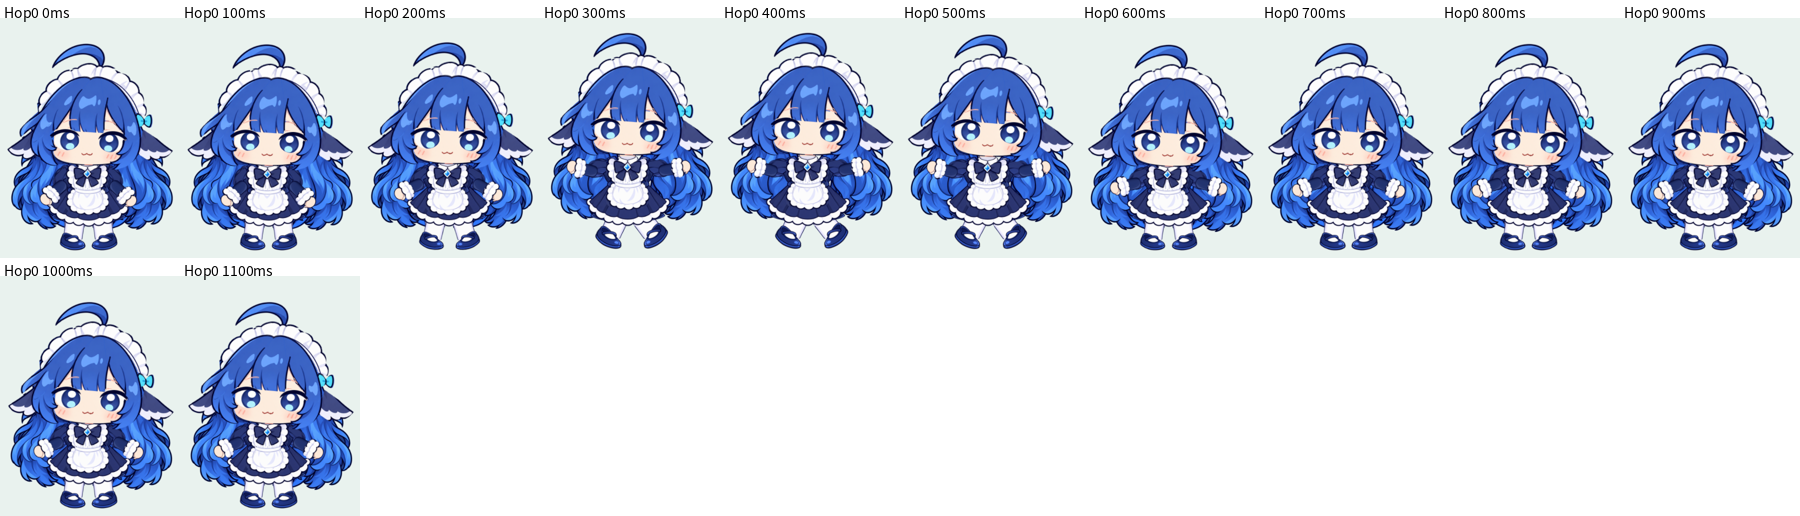
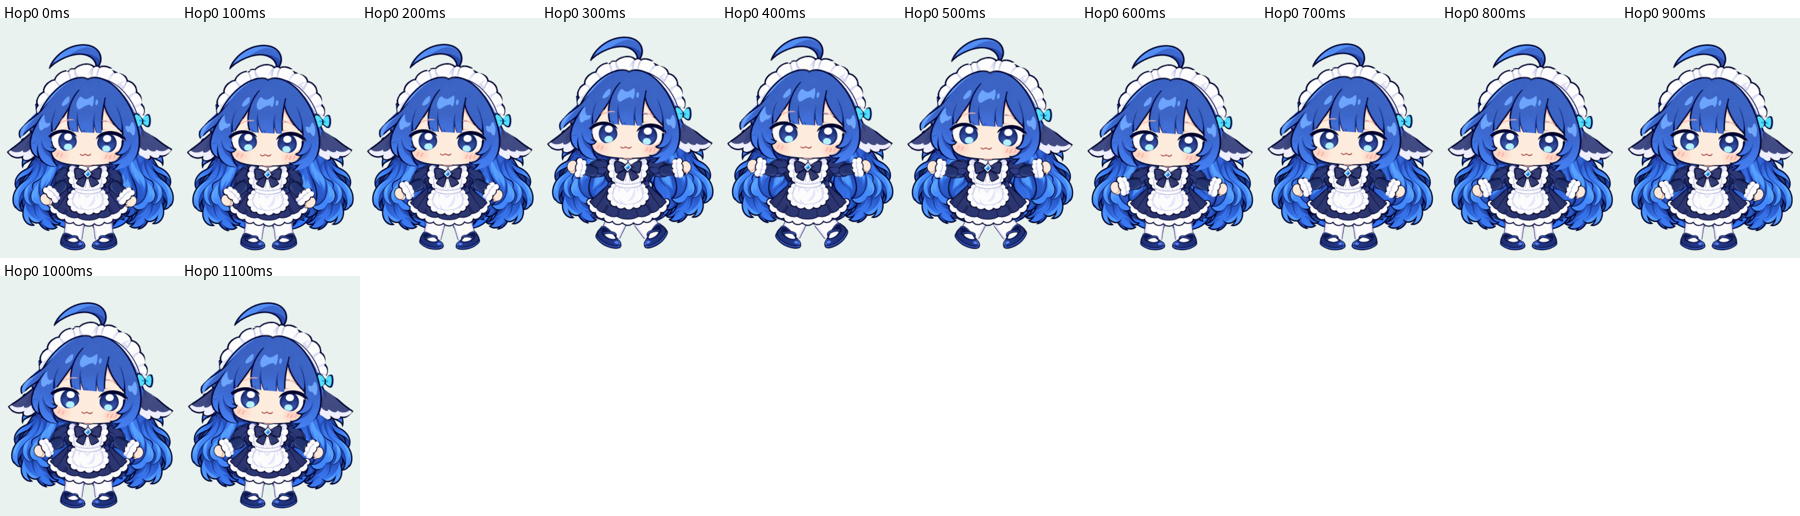
v12c 体检：乌龟脖修好；20 个动作帧带/GIF
Claude-Session: https://claude.ai/code/session_014mufu2mxK4BuEVaGT96PBE

Changed region(s): [[0.0, 0.062, 0.9956, 0.4651], [0.0, 0.5891, 0.2178, 0.9612], [0.1556, 0.9302, 0.1867, 0.9612]]

diff --git a/art/live2d/seeko_v12/tools/poses_neck.py b/art/live2d/seeko_v12/tools/poses_neck.py
@@ -1,0 +1,58 @@
+"""v12 运行时的极限姿势检查：每个参数推到两端各截一张，拼成一张图。用法：python3 poses.py <runtime目录> <输出png>"""
+import sys, json, subprocess, time, os
+from playwright.sync_api import sync_playwright
+from PIL import Image, ImageDraw, ImageFont
+
+RT = os.path.abspath(sys.argv[1])
+OUT = sys.argv[2]
+HERE = os.path.dirname(os.path.abspath(__file__))
+# 临时把 runtime 软链进 chk 目录
+link = os.path.join(HERE, 'runtime_v12')
+if os.path.islink(link):
+    os.unlink(link)
+os.symlink(RT, link)
+POSES = [
+    ('默认', {}),
+    ('拉伸 1', {'ParamBodyStretch': 1}),
+    ('身 Y -4', {'ParamBodyAngleY': -4}),
+    ('头 Y -6', {'ParamAngleY': -6}),
+    ('拉伸1 + 身Y-4', {'ParamBodyStretch': 1, 'ParamBodyAngleY': -4}),
+    ('拉伸1 + 头Y-6', {'ParamBodyStretch': 1, 'ParamAngleY': -6}),
+    ('拉伸 0.5', {'ParamBodyStretch': 0.5}),
+    ('头 Y -9', {'ParamAngleY': -9}),
+]
+srv = subprocess.Popen([sys.executable, '-m', 'http.server', '8767', '--bind', '127.0.0.1', '-d', HERE], stdout=subprocess.DEVNULL, stderr=subprocess.DEVNULL)
+time.sleep(0.8)
+font = ImageFont.truetype('/usr/share/fonts/opentype/noto/NotoSansCJK-Regular.ttc', 15)
+try:
+    with sync_playwright() as p:
+        b = p.chromium.launch(args=['--use-gl=angle', '--use-angle=swiftshader', '--enable-unsafe-swiftshader'])
+        pg = b.new_page(viewport={'width': 360, 'height': 480})
+        errs = []
+        pg.on('pageerror', lambda e: errs.append(str(e)))
+        pg.goto('http://127.0.0.1:8767/pview.html?m=../runtime_v12/seeko')
+        r = pg.evaluate('window.ready'); assert r == 'ok', r
+        ids = pg.evaluate("() => { const c = window.model.internalModel.coreModel; return c._parameterIds || c.getModel().parameters.ids; }")
+        print('参数', len(ids))
+        missing = set()
+        pg.evaluate("() => { window.model.internalModel.eyeBlink = undefined; window.model.internalModel.breath = undefined; window.model.internalModel.physics = undefined; window.model.internalModel.motionManager.stopAllMotions(); window._ps = {}; window.model.internalModel.on('beforeModelUpdate', () => { const c = window.model.internalModel.coreModel; for (let k=0;k<c.getParameterCount();k++) c.setParameterValueByIndex(k, c.getParameterDefaultValue(k)); for (const [k, v] of Object.entries(window._ps)) c.setParameterValueById(k, v); }); }")
+        tiles = []
+        for name, ps in POSES:
+            for k in ps:
+                if k not in ids: missing.add(k)
+            pg.evaluate("(ps) => { window._ps = ps; window.step(400); }", ps)
+            f = f'/tmp/pose_{len(tiles)}.png'
+            pg.screenshot(path=f)
+            tiles.append((name, Image.open(f).convert('RGB')))
+        b.close()
+    cols = 4
+    w, h = tiles[0][1].size
+    rows = (len(tiles) + cols - 1) // cols
+    S = Image.new('RGB', (w * cols, (h + 22) * rows), 'white'); d = ImageDraw.Draw(S)
+    for i, (name, im) in enumerate(tiles):
+        x, y = (i % cols) * w, (i // cols) * (h + 22)
+        S.paste(im, (x, y + 22)); d.text((x + 4, y + 2), name, fill='black', font=font)
+    S.save(OUT)
+    print('缺参数:', sorted(missing)); print('页面错误:', errs); print('写出', OUT)
+finally:
+    srv.terminate()

diff --git a/art/live2d/seeko_v12/tools/rec.py b/art/live2d/seeko_v12/tools/rec.py
@@ -1,0 +1,40 @@
+import sys, json, subprocess, time, os
+from playwright.sync_api import sync_playwright
+from PIL import Image, ImageDraw, ImageFont
+OUT='/home/claude/v12/chk/out12'; os.makedirs(OUT, exist_ok=True)
+srv=subprocess.Popen([sys.executable,'-m','http.server','8766','--bind','127.0.0.1','-d','/home/claude/v12/chk'],stdout=subprocess.DEVNULL,stderr=subprocess.DEVNULL); time.sleep(0.8)
+MOTIONS=['Idle:0','Idle:1','Idle:2','Wave','Hop','Shy','Flinch','Hang','Fall','Land','Walk','Cheer','Stretch','Tilt','Nod','Shake','Kick','Slump','Pant','Swing']
+font=ImageFont.truetype('/usr/share/fonts/opentype/noto/NotoSansCJK-Regular.ttc',14) if os.path.exists('/usr/share/fonts/opentype/noto/NotoSansCJK-Regular.ttc') else None
+try:
+  with sync_playwright() as p:
+    b=p.chromium.launch(args=['--use-gl=angle','--use-angle=swiftshader','--enable-unsafe-swiftshader'])
+    pg=b.new_page(viewport={'width':360,'height':480})
+    pg.goto('http://127.0.0.1:8766/pview.html?m=runtime_v12/seeko'); 
+    r=pg.evaluate('window.ready'); assert r=='ok', r
+    pg.evaluate("() => { window.model.internalModel.eyeBlink = undefined; window.step(500); }")
+    for m in MOTIONS:
+        g,i=(m.split(':')+['0'])[:2]
+        # 先回中立
+        pg.evaluate("() => { window.model.internalModel.motionManager.stopAllMotions(); const c=window.model.internalModel.coreModel; for (let k=0;k<c.getParameterCount();k++) c.setParameterValueByIndex(k, c.getParameterDefaultValue(k)); window.step(300); }")
+        dur = pg.evaluate("async ([g,i]) => { const mm=window.model.internalModel.motionManager; await window.model.motion(g, i, 3); const def = mm.definitions[g][i]; const j = await fetch('runtime_v12/'+def.File).then(r=>r.json()); return j.Meta.Duration; }", [g,int(i)])
+        dur=min(dur, 6.0)
+        n=max(12, min(40, round(dur/0.1)))
+        frames=[]
+        for k in range(n):
+            pg.evaluate("window.step(100)")
+            f=f'{OUT}/f_{g}{i}_{k:02d}.png'; pg.screenshot(path=f); frames.append(f)
+        ims=[Image.open(f).convert('RGB') for f in frames]
+        # GIF (actual 100ms/frame)
+        ims[0].save(f'{OUT}/{g}{i}.gif', save_all=True, append_images=ims[1:], duration=100, loop=0)
+        # contact sheet, half size, 10 per row
+        th=[im.resize((180,240)) for im in ims]
+        cols=10; rows=(len(th)+cols-1)//cols
+        S=Image.new('RGB',(180*cols,(240+18)*rows),'white'); d=ImageDraw.Draw(S)
+        for k,im in enumerate(th):
+            x,y=(k%cols)*180,(k//cols)*258; S.paste(im,(x,y+18)); d.text((x+4,y+1),f'{g}{i} {k*100}ms',fill='black',font=font)
+        S.save(f'{OUT}/sheet_{g}{i}.png')
+        for f in frames: os.remove(f)
+        print(m, 'dur', round(dur,2), 'frames', n)
+    b.close()
+finally:
+    srv.terminate()
